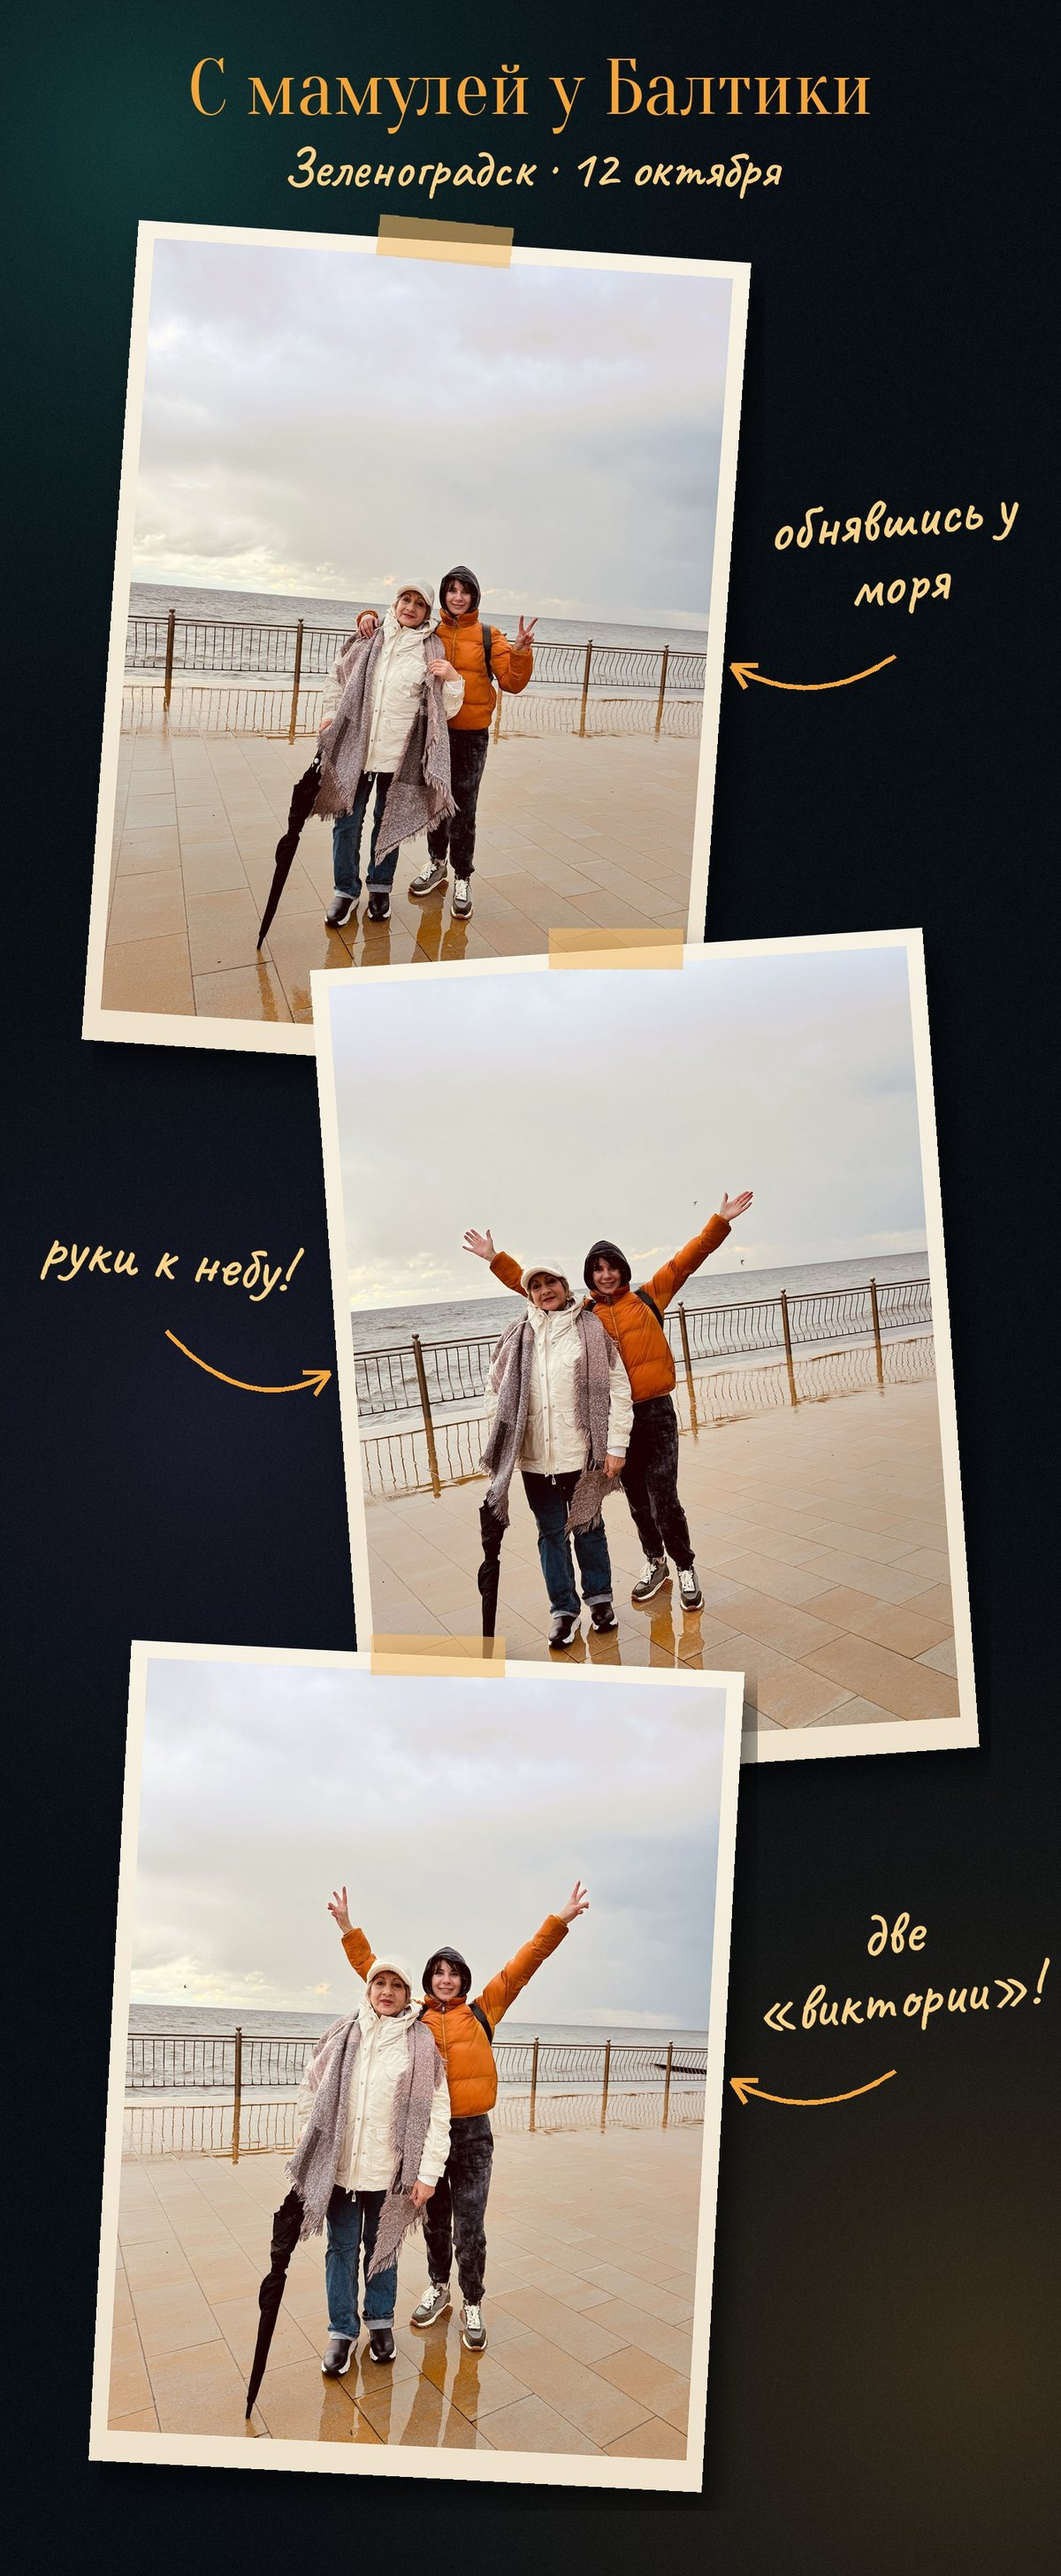
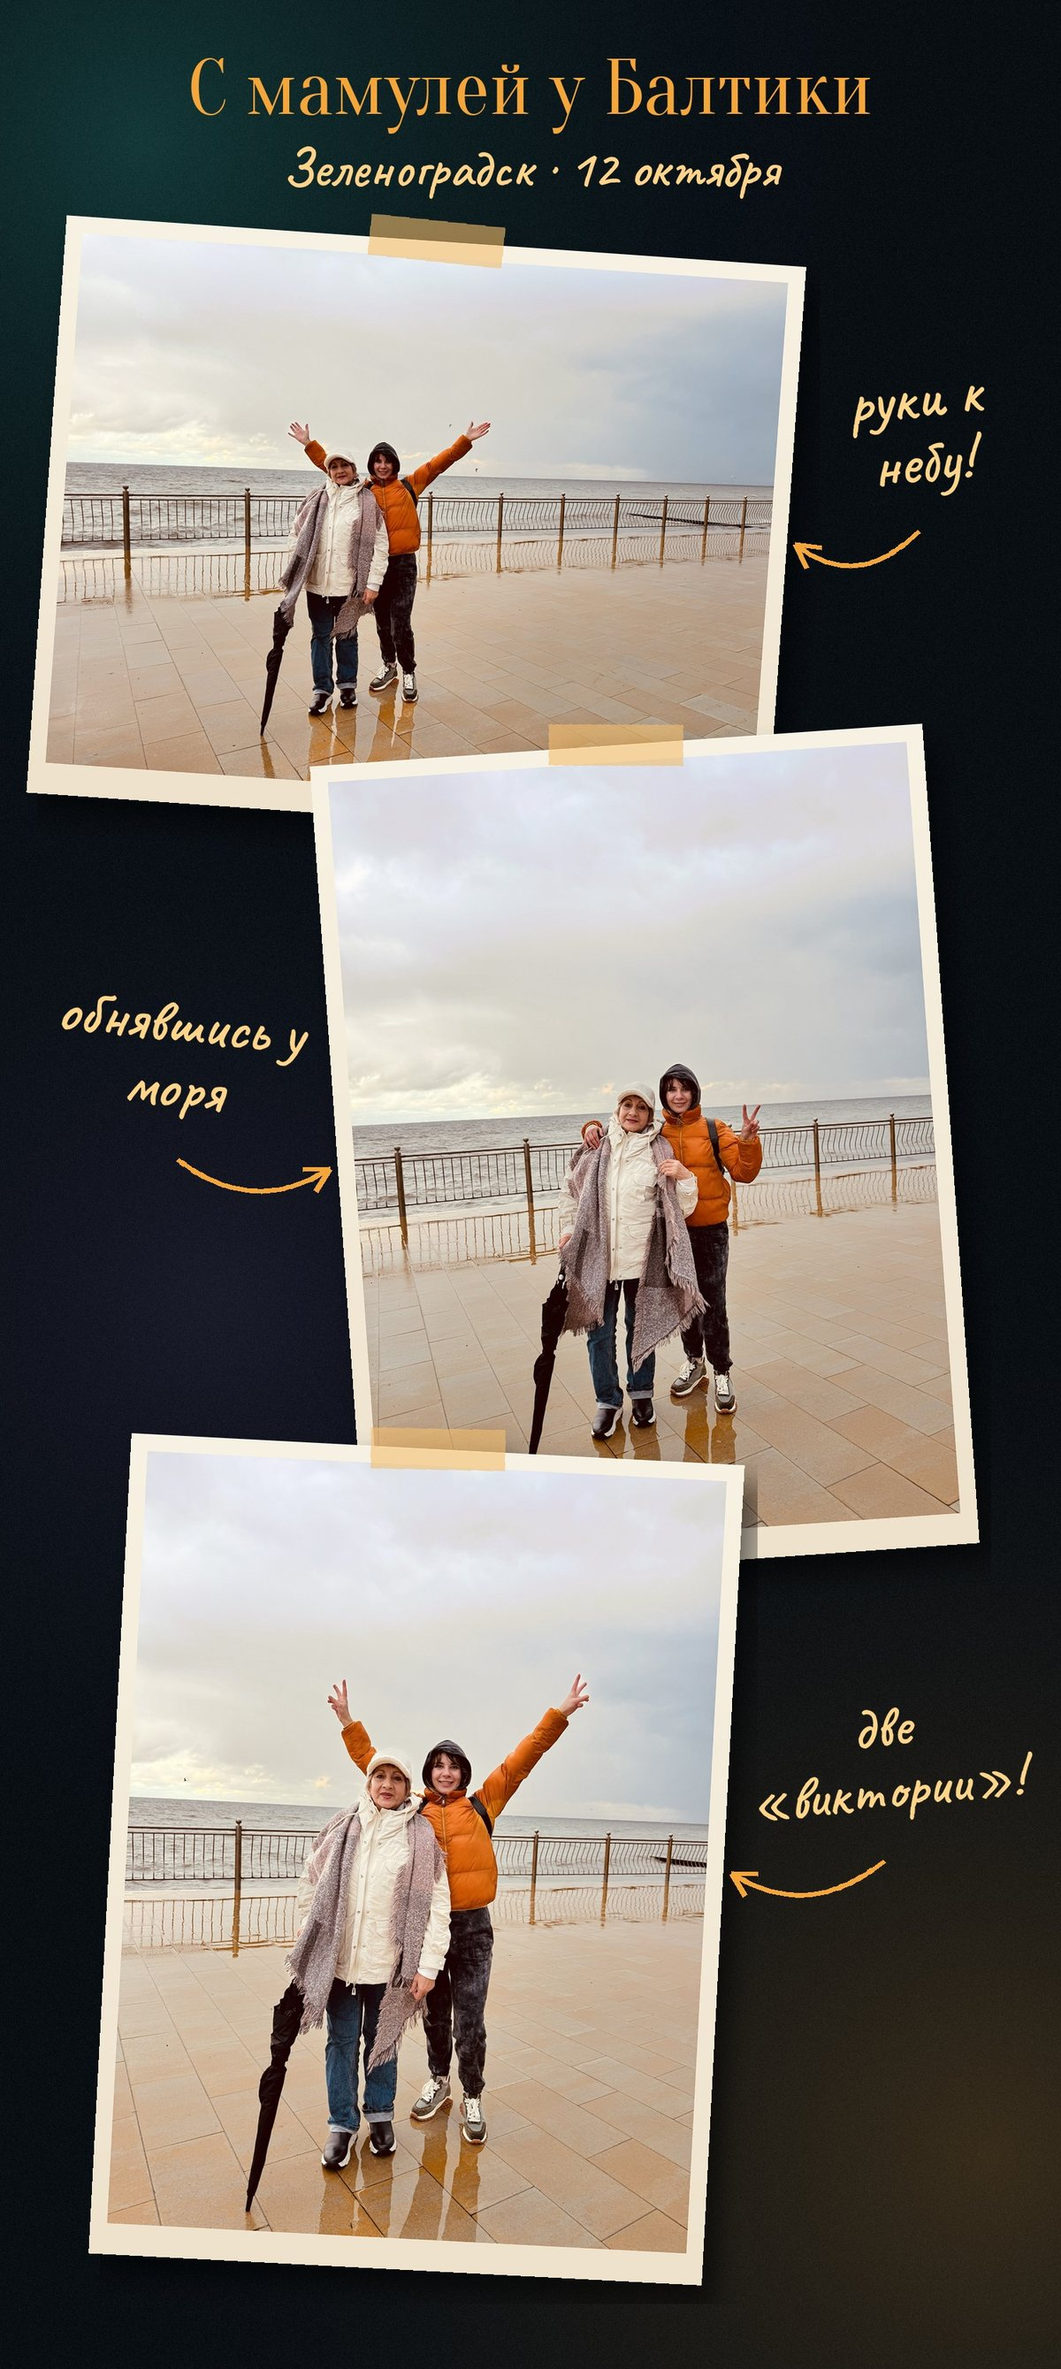
Альбом «Калининград»: страница «С мамулей у Балтики» — «обнявшись у моря» в центре
По просьбе: сверху «руки к небу!» (теперь целиком, широкой карточкой), в центре «обнявшись у моря»,
снизу «две «виктории»!».

Claude-Session: https://claude.ai/code/session_01BUmNQ2Kk9fTi5P6tnA3gYJ

diff --git a/kaliningrad/album/index.html b/kaliningrad/album/index.html
@@ -712,7 +712,7 @@ body.picking .wrap{padding-bottom:calc(var(--nav-h) + 230px + env(safe-area-inse
  {"id": "d2-67", "day": 2, "src": "photos/d2-67.jpg", "thumb": "photos/t/d2-67.jpg", "w": 1200, "h": 2913, "place": "zel", "title": "Мамуля и балтийский ветер", "date": "2026-10-12", "collage": true},
  {"id": "d2-68", "day": 2, "src": "photos/d2-68.jpg", "thumb": "photos/t/d2-68.jpg", "w": 1500, "h": 2000, "place": "zel", "title": "Мамуля раскинула руки ветру", "date": "2026-10-12", "film": false},
  {"id": "d2-69", "day": 2, "type": "video", "src": "photos/d2-69.mp4?v=3", "poster": "photos/d2-69.jpg", "thumb": "photos/t/d2-69.jpg", "w": 720, "h": 1280, "dur": 5.5, "place": "zel", "title": "Мамуля на ветреной набережной", "date": "2026-10-12", "time": "17:21", "sea": true},
- {"id": "d2-70", "day": 2, "src": "photos/d2-70.jpg", "thumb": "photos/t/d2-70.jpg", "w": 1200, "h": 2913, "place": "zel", "title": "С мамулей у Балтики", "date": "2026-10-12", "collage": true},
+ {"id": "d2-70", "day": 2, "src": "photos/d2-70.jpg?v=2", "thumb": "photos/t/d2-70.jpg?v=2", "w": 1200, "h": 2679, "place": "zel", "title": "С мамулей у Балтики", "date": "2026-10-12", "collage": true},
  {"id": "d2-71", "day": 2, "type": "video", "src": "photos/d2-71.mp4?v=4", "poster": "photos/d2-71.jpg", "thumb": "photos/t/d2-71.jpg", "w": 720, "h": 1280, "dur": 17.8, "place": "zel", "title": "Я и зонтик против ветра", "date": "2026-10-12", "sea": true},
  {"id": "d2-79", "day": 2, "src": "photos/d2-79.jpg", "thumb": "photos/t/d2-79.jpg", "w": 1200, "h": 1982, "town": "zel", "title": "Всей группой за столом", "date": "2026-10-12", "collage": true},
  {"id": "d2-75", "day": 2, "src": "photos/d2-75.jpg", "thumb": "photos/t/d2-75.jpg", "w": 1200, "h": 2368, "town": "zel", "title": "Меню нашего дня", "date": "2026-10-12", "collage": true}
